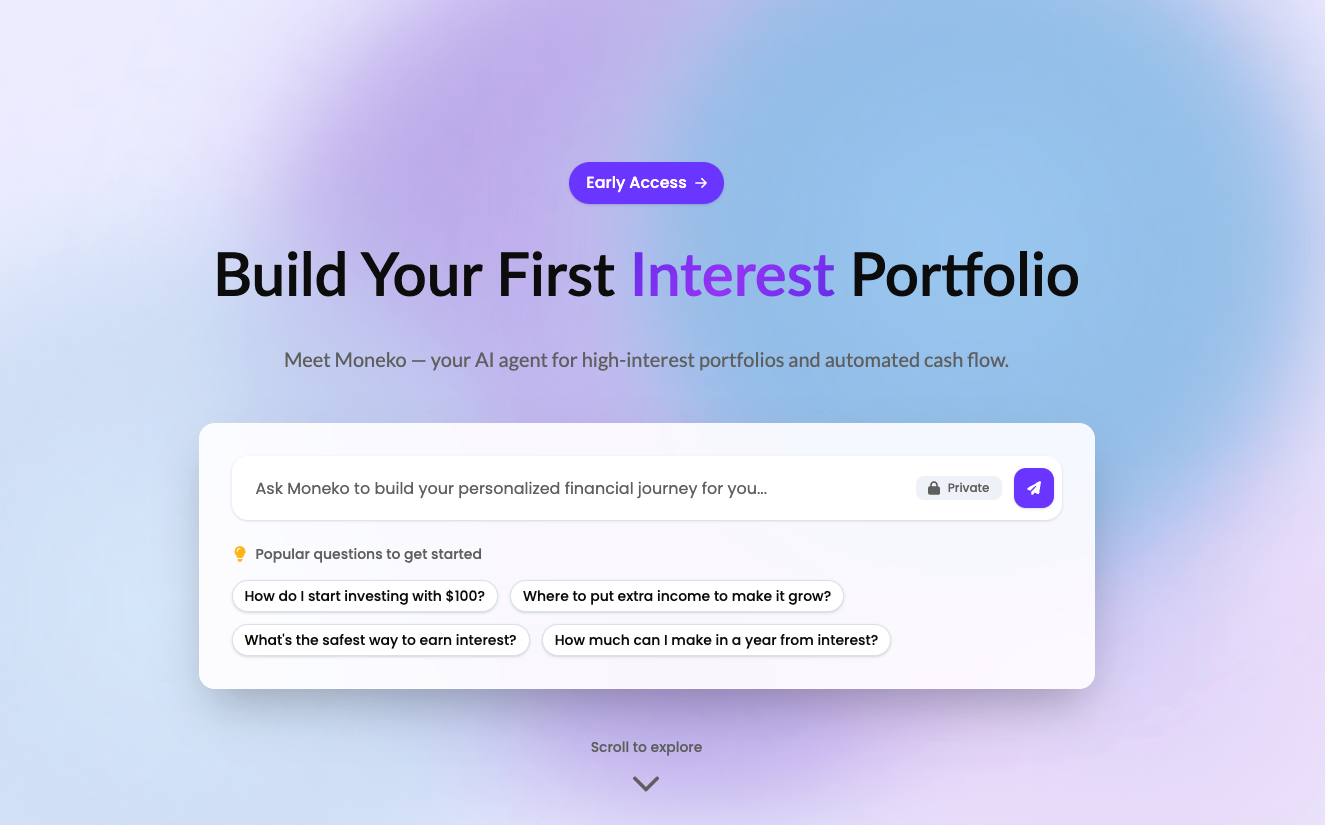
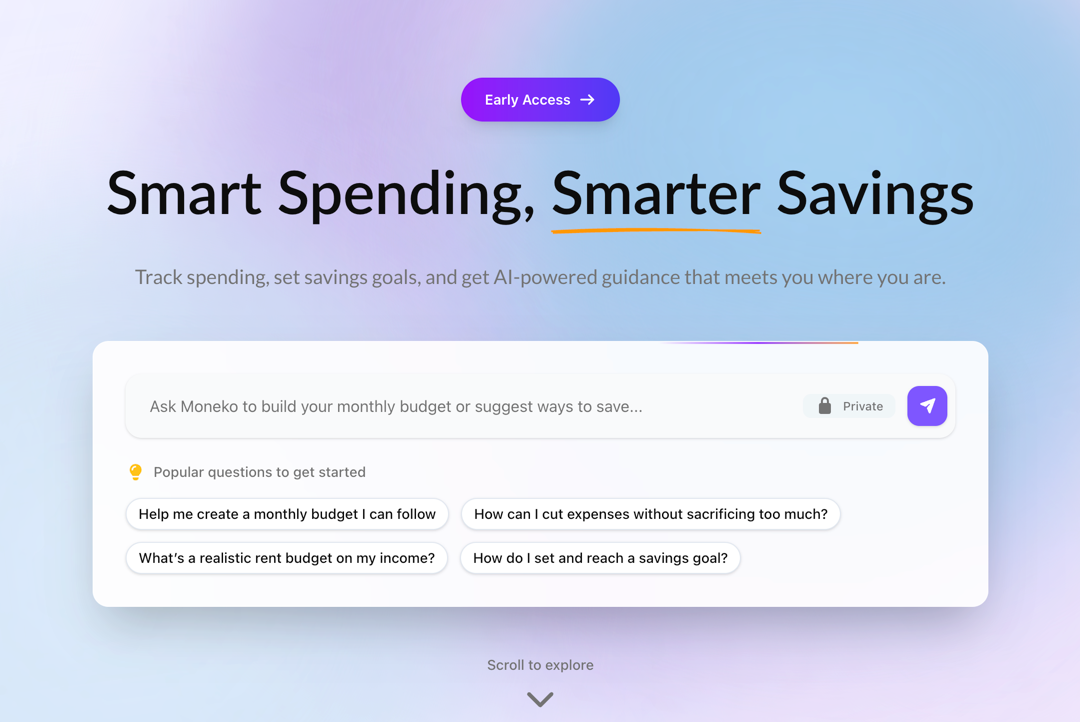
test

Changed region(s): [[0.0611, 0.0, 1.0, 0.9751], [0.0917, 0.0914, 0.9167, 0.3961]]

diff --git a/src/routes/index.tsx b/src/routes/index.tsx
@@ -6,6 +6,7 @@ import { HomeHeader } from "@/components/index/header";
 import { getCanonicalUrl } from "@/utils/canonical";
 import { seo } from "@/utils/seo";
 import { Helmet } from "@dr.pogodin/react-helmet";
+import { motion } from "framer-motion";
 // Dynamic content system
 import passiveIncomeVariants from "@/data/home/passive-income-variants.json";
 
@@ -88,10 +89,6 @@ export default function HomePage() {
     ]
   };
 
-  // Safari iOS streaming fix: Safari buffers HTML until ~650B gzipped
-  // Adding invisible padding triggers streaming: https://github.com/remix-run/remix/issues/5804
-  const safariStreamingPadding = '\u200b'.repeat(200);
-
   return (
     <div className="relative min-h-screen bg-moneko-background">
       <Helmet>
@@ -103,9 +100,6 @@ export default function HomePage() {
         <script type="application/ld+json">{JSON.stringify(structuredData)}</script>
       </Helmet>
 
-      {/* Safari iOS streaming fix - invisible padding */}
-      <div style={{ width: 0, height: 0, overflow: 'hidden' }} dangerouslySetInnerHTML={{ __html: safariStreamingPadding }} />
-
       <AmbientHalo />
 
       {/* Header */}
@@ -114,44 +108,84 @@ export default function HomePage() {
       </nav>
 
       {/* Hero Section - Transparent background with halo */}
-      <section className="relative">
+      <motion.section
+        className="relative"
+        initial={{ opacity: 0 }}
+        whileInView={{ opacity: 1 }}
+        viewport={{ once: true, margin: "-50px" }}
+        transition={{ duration: 0.6 }}
+      >
         <HeroSection data={pageData} />
-      </section>
+      </motion.section>
 
-          {/* Video Section */}
-          <section className="relative bg-white/80 dark:bg-gray-900/80">
+      {/* Video Section */}
+      <motion.section
+        className="relative bg-white/80 dark:bg-gray-900/80"
+        initial={{ opacity: 0 }}
+        whileInView={{ opacity: 1 }}
+        viewport={{ once: true, margin: "-50px" }}
+        transition={{ duration: 0.6 }}
+      >
         <VideoSection data={pageData} />
-      </section>
-
+      </motion.section>
 
       {/* Features Bento Grid Section */}
-      <section className="relative bg-white/80 dark:bg-gray-900/80">
+      <motion.section
+        className="relative bg-white/80 dark:bg-gray-900/80"
+        initial={{ opacity: 0 }}
+        whileInView={{ opacity: 1 }}
+        viewport={{ once: true, margin: "-50px" }}
+        transition={{ duration: 0.6 }}
+      >
         <FeaturesBentoGrid />
-      </section>
+      </motion.section>
 
-  
-         {/* DashboardShowcase Section */}
-         <section className="relative bg-white/80 dark:bg-gray-900/80">
+      {/* DashboardShowcase Section */}
+      <motion.section
+        className="relative bg-white/80 dark:bg-gray-900/80"
+        initial={{ opacity: 0 }}
+        whileInView={{ opacity: 1 }}
+        viewport={{ once: true, margin: "-50px" }}
+        transition={{ duration: 0.6 }}
+      >
         <DashboardShowcase />
-      </section>
+      </motion.section>
 
       {/* Three Steps Section */}
-      <section className="relative bg-white/80 dark:bg-gray-900/80">
+      <motion.section
+        className="relative bg-white/80 dark:bg-gray-900/80"
+        initial={{ opacity: 0 }}
+        whileInView={{ opacity: 1 }}
+        viewport={{ once: true, margin: "-50px" }}
+        transition={{ duration: 0.6 }}
+      >
         <ThreeStepsSection data={pageData} />
-      </section>
+      </motion.section>
 
       {/* Testimonials Section */}
       {/* <TestimonialsSection /> */}
 
       {/* Expert-Led Lessons Section */}
-      <section className="relative bg-white/80 dark:bg-gray-900/80">
+      <motion.section
+        className="relative bg-white/80 dark:bg-gray-900/80"
+        initial={{ opacity: 0 }}
+        whileInView={{ opacity: 1 }}
+        viewport={{ once: true, margin: "-50px" }}
+        transition={{ duration: 0.6 }}
+      >
         <ExpertLessonsSection data={pageData} />
-      </section>
+      </motion.section>
 
       {/* FAQ Section */}
-      <section className="relative ">
+      <motion.section
+        className="relative"
+        initial={{ opacity: 0 }}
+        whileInView={{ opacity: 1 }}
+        viewport={{ once: true, margin: "-50px" }}
+        transition={{ duration: 0.6 }}
+      >
         <FAQSection />
-      </section>
+      </motion.section>
 
       {/* Footer */}
       <Footer />

diff --git a/src/routes/pricing.tsx b/src/routes/pricing.tsx
@@ -276,15 +276,8 @@ function PricingPage() {
     }
   };
 
-  // Safari iOS streaming fix: Safari buffers HTML until ~650B gzipped
-  // Adding invisible padding triggers streaming: https://github.com/remix-run/remix/issues/5804
-  const safariStreamingPadding = '\u200b'.repeat(200);
-
   return (
     <AmbientHaloLayout>
-      {/* Safari iOS streaming fix - invisible padding */}
-      <div style={{ width: 0, height: 0, overflow: 'hidden' }} dangerouslySetInnerHTML={{ __html: safariStreamingPadding }} />
-
       {/* GEO-Optimized FAQ Schema for Pricing */}
       <StructuredData
         type="faq"
@@ -309,13 +302,21 @@ function PricingPage() {
       />
 
       <HomeHeader />
-      <div      
+      <motion.div
         className="container mx-auto min-h-screen px-4 py-12 md:py-20"
+        initial={{ opacity: 0 }}
+        whileInView={{ opacity: 1 }}
+        viewport={{ once: true, margin: "-50px" }}
+        transition={{ duration: 0.6 }}
       >
-     
 
-        <header
+
+        <motion.header
           className="mb-16 text-center md:mb-20"
+          initial={{ opacity: 0, y: 20 }}
+          whileInView={{ opacity: 1, y: 0 }}
+          viewport={{ once: true, margin: "-50px" }}
+          transition={{ duration: 0.6 }}
         >
           <h1
             className="mb-6 text-3xl font-bold text-foreground sm:text-4xl lg:text-5xl"
@@ -342,11 +343,15 @@ function PricingPage() {
           <span className="sr-only" aria-live="polite" aria-atomic="true">
             {billingPeriodMessage}
           </span>
-        </header>
+        </motion.header>
 
-        <div
+        <motion.div
           className="mt-12 grid grid-cols-1 justify-center gap-8 md:grid-cols-2 lg:grid-cols-3"
           id="pricing-tiers"
+          initial={{ opacity: 0 }}
+          whileInView={{ opacity: 1 }}
+          viewport={{ once: true, margin: "-50px" }}
+          transition={{ duration: 0.6 }}
         >
           {pricingTiers.map((tier) => (
             <div
@@ -467,16 +472,41 @@ function PricingPage() {
               </Card>
             </div>
           ))}
-        </div>
+        </motion.div>
 
-        <FeatureComparisonGrid prefersReducedMotion={prefersReducedMotion} />
+        <motion.div
+          initial={{ opacity: 0 }}
+          whileInView={{ opacity: 1 }}
+          viewport={{ once: true, margin: "-50px" }}
+          transition={{ duration: 0.6 }}
+        >
+          <FeatureComparisonGrid prefersReducedMotion={prefersReducedMotion} />
+        </motion.div>
 
-        <SocialProofSection prefersReducedMotion={prefersReducedMotion} />
+        <motion.div
+          initial={{ opacity: 0 }}
+          whileInView={{ opacity: 1 }}
+          viewport={{ once: true, margin: "-50px" }}
+          transition={{ duration: 0.6 }}
+        >
+          <SocialProofSection prefersReducedMotion={prefersReducedMotion} />
+        </motion.div>
 
-        <FaqSection faqData={faqData} />
+        <motion.div
+          initial={{ opacity: 0 }}
+          whileInView={{ opacity: 1 }}
+          viewport={{ once: true, margin: "-50px" }}
+          transition={{ duration: 0.6 }}
+        >
+          <FaqSection faqData={faqData} />
+        </motion.div>
 
-        <div
+        <motion.div
           className="mt-20 md:mt-24"
+          initial={{ opacity: 0 }}
+          whileInView={{ opacity: 1 }}
+          viewport={{ once: true, margin: "-50px" }}
+          transition={{ duration: 0.6 }}
         >
           <Card className="text-center bg-subtle-background">
             <CardHeader className="pb-4">
@@ -498,8 +528,8 @@ function PricingPage() {
               </Button>
             </CardContent>
           </Card>
-        </div>
-      </div>
+        </motion.div>
+      </motion.div>
       {isLoading && (
         <div className="fixed inset-0 z-50 flex items-center justify-center bg-black/50 backdrop-blur-sm">
           <Card className="p-8 shadow-xl">
